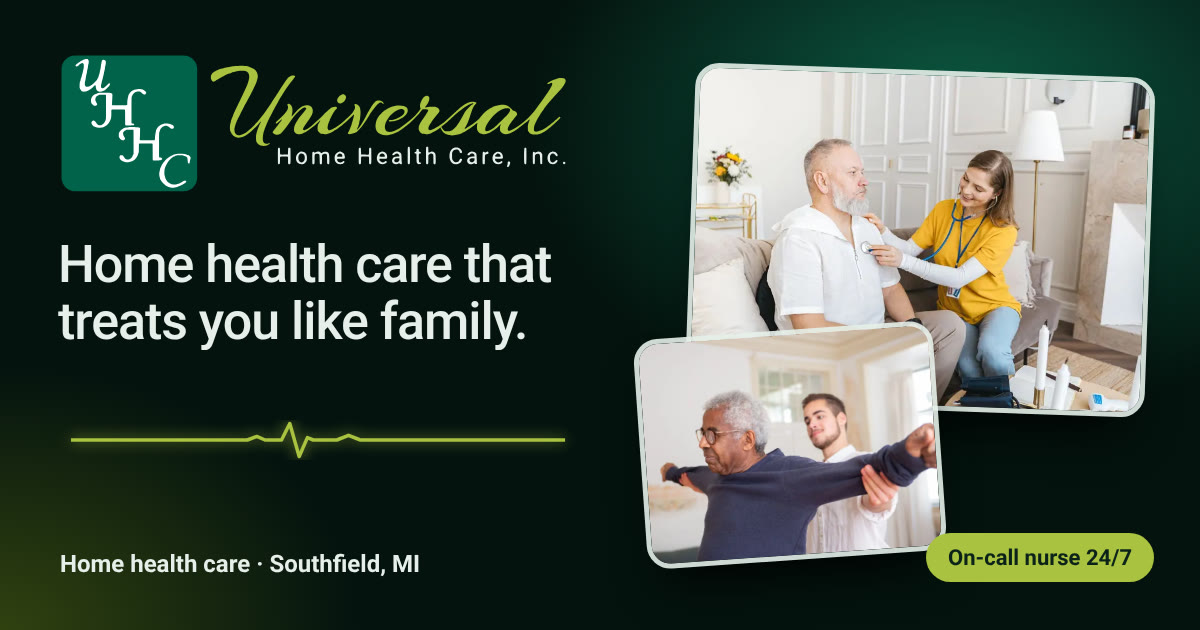
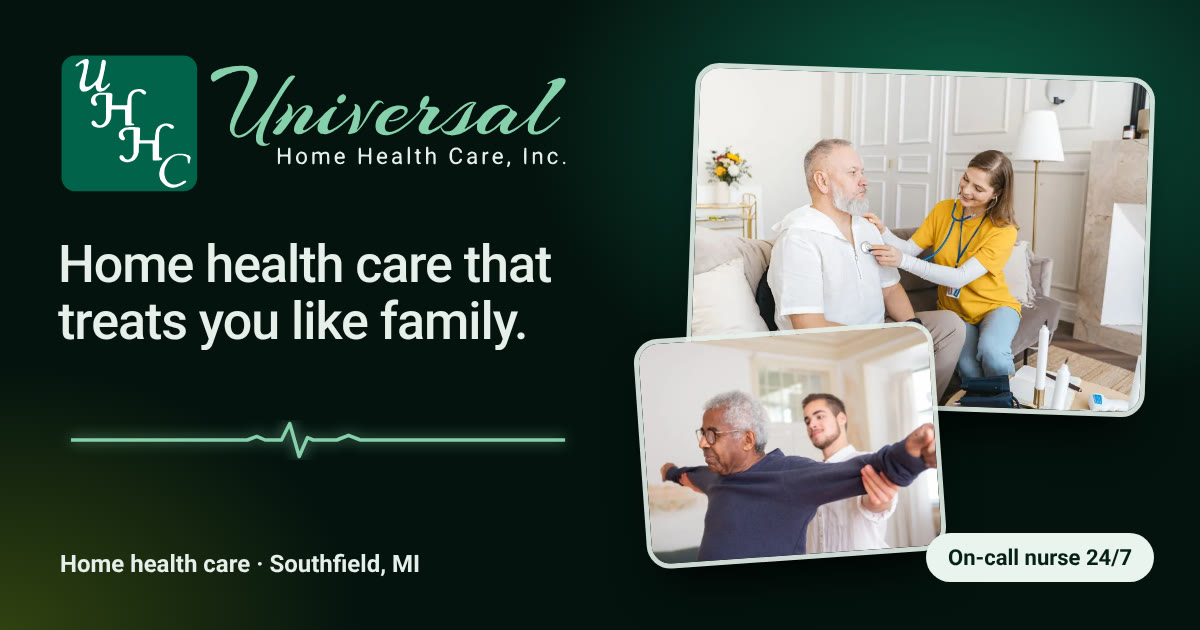
Universal: big scroll button with progress ring, deep emerald palette (no neon), masked word reveals, tap-to-load map, fewer constant repaints
Claude-Session: https://claude.ai/code/session_01LLUpzQsT57yuc9pnTAzjB7

Changed region(s): [[0.185, 0.0905, 0.4933, 0.2413], [0.7708, 0.8444, 0.9867, 0.9349], [0.0617, 0.6635, 0.4625, 0.7238]]

diff --git a/universalhhc/index.html b/universalhhc/index.html
@@ -10,14 +10,14 @@
 <meta property="og:url" content="https://universal-home-health-care.vercel.app/">
 <meta property="og:title" content="Universal Home Health Care · Home health care in Southfield, MI">
 <meta property="og:description" content="Skilled nursing, therapy, home health aides and social work brought to your home in Southfield, Michigan and the tri-county area. An on-call registered nurse 24 hours a day, 7 days a week. Call 800-733-1659.">
-<meta property="og:image" content="https://universal-home-health-care.vercel.app/media/og.jpg?v=mwnxj6sp">
+<meta property="og:image" content="https://universal-home-health-care.vercel.app/media/og.jpg?v=mwnxq6k0">
 <meta property="og:image:width" content="1200">
 <meta property="og:image:height" content="630">
 <meta property="og:image:alt" content="Universal Home Health Care · Home health care in Southfield, MI">
 <meta name="twitter:card" content="summary_large_image">
 <meta name="twitter:title" content="Universal Home Health Care · Home health care in Southfield, MI">
 <meta name="twitter:description" content="Skilled nursing, therapy, home health aides and social work brought to your home in Southfield, Michigan and the tri-county area. An on-call registered nurse 24 hours a day, 7 days a week. Call 800-733-1659.">
-<meta name="twitter:image" content="https://universal-home-health-care.vercel.app/media/og.jpg?v=mwnxj6sp">
+<meta name="twitter:image" content="https://universal-home-health-care.vercel.app/media/og.jpg?v=mwnxq6k0">
 <link rel="apple-touch-icon" href="https://universal-home-health-care.vercel.app/media/apple-touch-icon.png">
 <meta name="robots" content="noai, noimageai">
 <meta name="theme-color" content="#030f0b">
@@ -25,7 +25,7 @@
 <link rel="preconnect" href="https://fonts.googleapis.com"><link rel="preconnect" href="https://fonts.gstatic.com" crossorigin>
 <link href="https://fonts.googleapis.com/css2?family=Roboto:wght@400;500;700&display=swap" rel="stylesheet">
 <style>
-:root{--bg:#030f0b;--bg2:#06180f;--tx:#eef3ef;--tx2:rgba(238,243,239,.66);--tx3:rgba(238,243,239,.4);--line:rgba(238,243,239,.1);--green:#00634a;--greenL:#159a73;--lime:#b5cc4a;--paper:#f4f5f1;--ink:#0a1d15;--mute:#5b6a62;--pline:#e0e5df;--pad:20px;--ease:cubic-bezier(.2,.7,.2,1)}
+:root{--bg:#030f0b;--bg2:#06180f;--tx:#eef3ef;--tx2:rgba(238,243,239,.66);--tx3:rgba(238,243,239,.4);--line:rgba(238,243,239,.1);--green:#00634a;--greenL:#159a73;--lime:#86d1ab;--paper:#f4f5f1;--ink:#0a1d15;--mute:#5b6a62;--pline:#e0e5df;--pad:20px;--ease:cubic-bezier(.2,.7,.2,1)}
 *{margin:0;padding:0;box-sizing:border-box}
 html{-webkit-text-size-adjust:100%;scroll-padding-top:64px}
 html.lenis,html.lenis body{height:auto}
@@ -40,8 +40,8 @@ h1,h2,h3{font-weight:500;line-height:1.08;letter-spacing:-.02em}
 .wrap{max-width:1180px;margin:0 auto;padding:0 var(--pad)}
 .btn{display:inline-flex;align-items:center;justify-content:center;gap:8px;height:48px;padding:0 22px;border-radius:999px;font-weight:700;font-size:.875rem;text-decoration:none;white-space:nowrap;transition:transform .3s var(--ease),background-color .3s,color .3s,border-color .3s}
 .btn svg{width:18px;height:18px;flex:none}
-.b-lime{background:var(--lime);color:#08170f}
-.b-lime:hover{background:#c7dc5c}
+.b-lime{background:#eaf4ee;color:#062018}
+.b-lime:hover{background:#fff}
 .b-ghost{color:var(--tx);border:1px solid rgba(238,243,239,.28)}
 .b-ghost:hover{border-color:var(--tx)}
 .b-green{background:var(--green);color:#fff}
@@ -69,7 +69,7 @@ a:focus-visible,button:focus-visible,summary:focus-visible{outline:2px solid var
 /* hero */
 .hero{position:relative;overflow:hidden;padding:92px 0 0;isolation:isolate}
 #gl{position:absolute;inset:0;width:100%;height:100%;z-index:-2;image-rendering:auto;transform:translateZ(0)}
-.hero-fb{position:absolute;inset:0;z-index:-3;background:radial-gradient(80% 60% at 75% 20%,rgba(21,154,115,.5),transparent 60%),var(--bg)}
+.hero-fb{position:absolute;inset:0;z-index:-3;background:radial-gradient(80% 60% at 75% 20%,rgba(10,100,76,.55),transparent 60%),var(--bg)}
 .hero-vig{position:absolute;inset:0;z-index:-1;background:linear-gradient(180deg,rgba(3,15,11,.1),rgba(3,15,11,0) 40%,rgba(3,15,11,.92) 88%,var(--bg));pointer-events:none}
 .eyebrow{display:inline-flex;align-items:center;gap:8px;font-size:.75rem;font-weight:400;letter-spacing:.09em;color:var(--tx2)}
 .eyebrow i{width:7px;height:7px;border-radius:50%;background:var(--lime);animation:beat .909s infinite}
@@ -80,17 +80,30 @@ a:focus-visible,button:focus-visible,summary:focus-visible{outline:2px solid var
 .hero .lede{color:var(--tx2);max-width:30em}
 .hero .ctas{display:flex;align-items:center;gap:18px;flex-wrap:wrap;margin-top:20px}
 .pulse{display:flex;align-items:center;gap:12px;margin-top:22px;padding:12px 14px;border-radius:16px;background:rgba(6,24,15,.55);border:1px solid var(--line);max-width:460px}
-.pulse .dot{position:relative;width:34px;height:34px;flex:none;border-radius:50%;background:rgba(181,204,74,.14);display:grid;place-items:center}
-.pulse .dot::before{content:"";width:10px;height:10px;border-radius:50%;background:var(--lime);box-shadow:0 0 14px var(--lime)}
+.pulse .dot{position:relative;width:34px;height:34px;flex:none;border-radius:50%;background:rgba(134,209,171,.14);display:grid;place-items:center}
+.pulse .dot::before{content:"";width:10px;height:10px;border-radius:50%;background:var(--lime)}
 .pulse .dot::after{content:"";position:absolute;inset:0;border-radius:50%;border:1px solid var(--lime);animation:ring 1.818s infinite}
 @keyframes ring{0%{opacity:.9;transform:scale(.7)}100%{opacity:0;transform:scale(1.6)}}
 .pulse b{display:block;font-size:.875rem;font-weight:700}
 .pulse span{font-size:.75rem;color:var(--tx2)}
 .pulse a{margin-left:auto;font-weight:800;font-size:.8125rem;color:var(--lime);text-decoration:none;white-space:nowrap}
+.cue{position:absolute;left:50%;top:calc(100svh - 214px);z-index:5;width:76px;height:76px;margin-left:-38px;border-radius:50%;display:grid;place-items:center;text-decoration:none;background:#00634a;box-shadow:0 14px 34px -10px rgba(0,0,0,.6),0 0 0 6px rgba(0,99,74,.25);transition:opacity .5s,transform .5s var(--ease)}
+.cue svg{position:absolute;inset:0;width:100%;height:100%;transform:rotate(-90deg)}
+.cue circle{fill:none;stroke-width:2}
+.cue .tr{stroke:rgba(255,255,255,.22)}
+.cue .pg{stroke:#fff;stroke-dasharray:289;stroke-dashoffset:289;stroke-linecap:round}
+.cue .ar{position:relative;width:18px;height:26px}
+.cue .ar i{position:absolute;left:50%;width:12px;height:12px;margin-left:-6px;border-right:2.5px solid #fff;border-bottom:2.5px solid #fff;transform:rotate(45deg);animation:cue 1.8s var(--ease) infinite}
+.cue .ar i:nth-child(2){animation-delay:.18s;opacity:.5}
+@keyframes cue{0%{top:-2px;opacity:0}30%{opacity:1}70%{opacity:1}100%{top:12px;opacity:0}}
+.cue em{position:absolute;top:calc(100% + 10px);left:50%;transform:translateX(-50%);font-style:normal;font-size:.6875rem;font-weight:500;letter-spacing:.14em;text-transform:uppercase;color:#fff;background:rgba(3,15,11,.72);border-radius:999px;padding:4px 10px;white-space:nowrap}
+.cue:hover{transform:translateY(3px)}
+.cue.gone{opacity:0;pointer-events:none;transform:translateY(16px)}
 .hmedia{position:relative;margin:30px auto 0;width:100%;border-radius:22px;overflow:hidden;aspect-ratio:4/3;max-height:48svh;transform-origin:50% 0;will-change:transform}
 .hmedia img{width:100%;height:100%;object-fit:cover;transform:scale(1.12);will-change:transform}
 .hmedia .cap{position:absolute;left:14px;bottom:14px;right:14px;display:flex;justify-content:space-between;align-items:flex-end;gap:10px;font-size:.75rem;font-weight:600}
 .hmedia .cap span{background:rgba(3,15,11,.62);border-radius:999px;padding:6px 12px}
+@media (max-width:699px){.hmedia .cap{display:none}}
 .ecgline{position:absolute;left:0;right:0;top:0;height:100%;pointer-events:none;opacity:.9}
 
 /* statement */
@@ -101,8 +114,8 @@ a:focus-visible,button:focus-visible,summary:focus-visible{outline:2px solid var
 /* numbers */
 .nums{padding:0 0 64px}
 .bento{display:grid;grid-template-columns:1fr 1fr;gap:10px}
-.tile{position:relative;border-radius:22px;padding:18px 16px 16px;background:linear-gradient(160deg,rgba(21,154,115,.16),rgba(6,24,15,.6) 60%);border:1px solid var(--line);overflow:hidden;min-height:150px;display:flex;flex-direction:column;justify-content:space-between}
-.tile::before{content:"";position:absolute;inset:0;background:radial-gradient(240px circle at var(--mx,50%) var(--my,0%),rgba(181,204,74,.18),transparent 60%);opacity:0;transition:opacity .4s}
+.tile{position:relative;border-radius:22px;padding:18px 16px 16px;background:linear-gradient(160deg,rgba(18,110,84,.22),rgba(6,24,15,.6) 60%);border:1px solid var(--line);overflow:hidden;min-height:150px;display:flex;flex-direction:column;justify-content:space-between}
+.tile::before{content:"";position:absolute;inset:0;background:radial-gradient(240px circle at var(--mx,50%) var(--my,0%),rgba(134,209,171,.18),transparent 60%);opacity:0;transition:opacity .4s}
 @media (hover:hover){.tile:hover::before{opacity:1}}
 .tile .v{font-size:2.5rem;font-weight:500;letter-spacing:-.03em;line-height:1}
 .tile .v small{font-size:.45em;letter-spacing:-.02em}
@@ -111,7 +124,7 @@ a:focus-visible,button:focus-visible,summary:focus-visible{outline:2px solid var
 .tile.wide .v{font-size:2rem}
 .tile.wide p{margin:0}
 .tile .ecgm{position:absolute;right:-10px;top:12px;width:60%;height:40px;opacity:.5}
-.tile .ecgm path{fill:none;stroke:var(--lime);stroke-width:2;stroke-dasharray:40 300;animation:ecg 1.818s linear infinite}
+.tile .ecgm path{fill:none;stroke:var(--lime);stroke-width:2;opacity:.7}
 @keyframes ecg{from{stroke-dashoffset:40}to{stroke-dashoffset:-300}}
 
 /* team scrolly */
@@ -189,8 +202,8 @@ a:focus-visible,button:focus-visible,summary:focus-visible{outline:2px solid var
 /* how */
 .how{background:var(--bg)}
 .track{display:grid;gap:10px}
-.step{border-radius:22px;padding:18px;background:linear-gradient(160deg,rgba(21,154,115,.14),rgba(6,24,15,.7) 60%);border:1px solid var(--line)}
-.step .n{font-size:2.25rem;font-weight:500;letter-spacing:-.03em;line-height:1;background:linear-gradient(180deg,var(--lime),rgba(181,204,74,.25));-webkit-background-clip:text;background-clip:text;color:transparent}
+.step{border-radius:22px;padding:18px;background:linear-gradient(160deg,rgba(18,110,84,.2),rgba(6,24,15,.7) 60%);border:1px solid var(--line)}
+.step .n{font-size:2.25rem;font-weight:500;letter-spacing:-.03em;line-height:1;background:linear-gradient(180deg,var(--lime),rgba(134,209,171,.25));-webkit-background-clip:text;background-clip:text;color:transparent}
 .step h3{font-size:1.0625rem;margin-top:14px;letter-spacing:-.02em}
 .step p{color:var(--tx2);font-size:.8125rem;margin-top:4px}
 
@@ -203,6 +216,9 @@ a:focus-visible,button:focus-visible,summary:focus-visible{outline:2px solid var
 .cw{display:grid;gap:12px}
 .map{position:relative;border-radius:22px;overflow:hidden;aspect-ratio:4/3;max-height:44svh;background:#e3e8e1;border:1px solid var(--pline)}
 .map iframe{position:absolute;inset:0;width:100%;height:100%;border:0;filter:grayscale(.6) contrast(1.05) brightness(1.02)}
+.mapbtn{position:absolute;inset:0;width:100%;display:flex;flex-direction:column;align-items:center;justify-content:center;gap:4px;color:var(--ink);background:radial-gradient(circle at 50% 46%,rgba(0,99,74,.12),transparent 40%),repeating-linear-gradient(0deg,transparent 0 38px,rgba(10,29,21,.05) 38px 39px),repeating-linear-gradient(90deg,transparent 0 38px,rgba(10,29,21,.05) 38px 39px),#e9eee7}
+.mapbtn .pin{width:18px;height:18px;border-radius:50% 50% 50% 0;transform:rotate(-45deg);background:var(--green);box-shadow:0 0 0 8px rgba(0,99,74,.15);margin-bottom:12px}
+.mapbtn b{font-weight:500;font-size:1rem}.mapbtn span:last-child{font-size:.75rem;color:var(--mute)}
 .card{background:#fff;border-radius:22px;padding:20px;border:1px solid var(--pline)}
 .card h3{font-size:1.25rem}
 .card address{font-style:normal;color:var(--mute);margin:6px 0 12px}
@@ -233,7 +249,9 @@ footer .lg{width:190px}
 .dock.hide{transform:translateY(150%);opacity:0;pointer-events:none}
 .toast{position:fixed;left:50%;bottom:92px;transform:translate(-50%,20px);background:var(--ink);color:#fff;border-radius:999px;padding:9px 16px;font-size:.8125rem;font-weight:700;opacity:0;transition:opacity .3s,transform .3s;z-index:70;pointer-events:none}
 .toast.on{opacity:1;transform:translate(-50%,0)}
-.up{opacity:0;transform:translateY(28px)}
+.up{opacity:0;transform:translateY(36px)}
+.wm{display:inline-block;overflow:hidden;vertical-align:top;padding-bottom:.08em;margin-bottom:-.08em}
+.wm>span{display:inline-block;will-change:transform}
 .no-motion .up{opacity:1;transform:none}
 
 /* intro */
@@ -244,12 +262,13 @@ footer .lg{width:190px}
 #intro .pr{position:absolute;left:14.5%;top:50%;width:0;height:0}
 #intro .pr i{position:absolute;left:-80px;top:-80px;width:160px;height:160px;border-radius:50%;border:1.5px solid var(--lime);opacity:0}
 #intro .iecg{position:absolute;left:-10%;right:-10%;top:108%;height:60px;width:120%}
-#intro .iecg path{fill:none;stroke:var(--lime);stroke-width:2;stroke-linecap:round;stroke-linejoin:round;filter:drop-shadow(0 0 6px rgba(181,204,74,.9))}
+#intro .iecg path{fill:none;stroke:var(--lime);stroke-width:2;stroke-linecap:round;stroke-linejoin:round;filter:drop-shadow(0 0 6px rgba(134,209,171,.9))}
 #intro .skip{position:absolute;left:0;right:0;bottom:calc(26px + env(safe-area-inset-bottom));text-align:center;font-size:.6875rem;font-weight:600;letter-spacing:.14em;text-transform:uppercase;color:rgba(238,243,239,.35)}
 
 @media (min-width:700px){
   :root{--pad:32px}
   .hero{padding-top:110px}
+  .cue{width:88px;height:88px;margin-left:-44px;top:calc(100svh - 170px)}
   .hero h1{font-size:3.25rem}
   .hmedia{aspect-ratio:16/9;max-height:none;border-radius:28px}
   .state p{font-size:2rem}
@@ -781,11 +800,12 @@ footer .lg{width:190px}
     <p class="lede hx">Skilled nursing, therapy, home health aides and social work, planned with your doctor and brought to your door across the tri-county area.</p>
     <div class="ctas hx"><a class="btn b-lime" href="tel:+18007331659"><svg viewBox="0 0 24 24" fill="none" stroke="currentColor" stroke-width="2" stroke-linecap="round" stroke-linejoin="round" aria-hidden="true"><path d="M5 4h4l2 5-2.5 1.5a11 11 0 0 0 5 5L15 13l5 2v4a2 2 0 0 1-2 2A16 16 0 0 1 3 6a2 2 0 0 1 2-2"/></svg>800-733-1659</a><a class="tl" href="#start">Start care <svg viewBox="0 0 24 24" fill="none" stroke="currentColor" stroke-width="2" stroke-linecap="round" stroke-linejoin="round" aria-hidden="true"><path d="M5 12h14M13 6l6 6-6 6"/></svg></a></div>
     <div class="pulse hx" aria-live="polite"><span class="dot"></span><div><b id="whoh">Our office team is in</b><span id="whos">Southfield</span></div><a href="tel:+18007331659">Call</a></div>
-    <figure class="hmedia" id="hmedia"><img src="media/p-nurse-1400.webp" srcset="media/p-nurse-800.webp 800w, media/p-nurse-1400.webp 1400w" sizes="(min-width:1180px) 1120px, 100vw" width="1400" height="934" fetchpriority="high" alt="A home health nurse listening to a patient's heart with a stethoscope in his living room"><svg class="ecgline" viewBox="0 0 1200 400" preserveAspectRatio="none" aria-hidden="true"><path id="hecg" d="M0 300H520l14-6 12 6h24l12-40 14 80 12-50 10 10h40l16-12 16 12H1200" fill="none" stroke="#b5cc4a" stroke-width="2" stroke-linecap="round" stroke-linejoin="round" vector-effect="non-scaling-stroke"/></svg><figcaption class="cap"><span>Nursing visits at home</span><span>On call 24/7</span></figcaption></figure>
+    <a class="cue" id="cue" href="#statement" aria-label="Scroll down to explore"><svg viewBox="0 0 100 100" aria-hidden="true"><circle class="tr" cx="50" cy="50" r="46"/><circle class="pg" id="cuepg" cx="50" cy="50" r="46"/></svg><span class="ar"><i></i><i></i></span><em>Scroll</em></a>
+    <figure class="hmedia" id="hmedia"><img src="media/p-nurse-1400.webp" srcset="media/p-nurse-800.webp 800w, media/p-nurse-1400.webp 1400w" sizes="(min-width:1180px) 1120px, 100vw" width="1400" height="934" fetchpriority="high" alt="A home health nurse listening to a patient's heart with a stethoscope in his living room"><svg class="ecgline" viewBox="0 0 1200 400" preserveAspectRatio="none" aria-hidden="true"><path id="hecg" d="M0 300H520l14-6 12 6h24l12-40 14 80 12-50 10 10h40l16-12 16 12H1200" fill="none" stroke="#86d1ab" stroke-width="2" stroke-linecap="round" stroke-linejoin="round" vector-effect="non-scaling-stroke"/></svg><figcaption class="cap"><span>Nursing visits at home</span><span>On call 24/7</span></figcaption></figure>
   </div>
 </section>
 
-<section class="state">
+<section class="state" id="statement">
   <div class="wrap"><p id="stmt">Getting better should happen where you feel most like yourself: at home, in your own chair, with people who know you by name.</p></div>
 </section>
 
@@ -892,7 +912,7 @@ footer .lg{width:190px}
   <div class="wrap">
     <div class="sh up"><h2>Our office in Southfield</h2><p>Serving Southfield and nearby communities across the tri-county area of Michigan.</p></div>
     <div class="cw">
-      <div class="map up"><iframe title="Map of Universal Home Health Care, 24315 Northwestern Hwy, Southfield" loading="lazy" referrerpolicy="no-referrer-when-downgrade" src="https://maps.google.com/maps?q=24315%20Northwestern%20Hwy%2C%20Southfield%2C%20MI%2048075&z=12&output=embed"></iframe></div>
+      <div class="map up" id="map"><button type="button" class="mapbtn" id="mapbtn" aria-label="Load the map"><span class="pin"></span><b>24315 Northwestern Hwy</b><span>Tap to load the map</span></button></div>
       <div class="card up">
         <h3>Universal Home Health Care, Inc.</h3>
         <address>24315 Northwestern Hwy, Suite 226<br>Southfield, MI 48075</address>
@@ -1196,6 +1216,12 @@ function who(){var d=new Date(),wd=new Intl.DateTimeFormat('en-US',{timeZone:'Am
   $('#whos').textContent=wd+' '+tt+' in Southfield'+(open?' · open until 5:30 PM':'');}
 who();setInterval(who,30000);
 
+/* scroll cue: ring fills over the first screen, then it fades */
+var cue=$('#cue'),cpg=$('#cuepg');
+function cueU(){var p=Math.min(1,scrollY/(innerHeight*.5));cpg.style.strokeDashoffset=289*(1-p);cue.classList.toggle('gone',scrollY>innerHeight*.45)}
+addEventListener('scroll',cueU,{passive:true});cueU();
+/* map loads only on tap */
+$('#mapbtn').addEventListener('click',function(){$('#map').innerHTML='<iframe title="Map of Universal Home Health Care, 24315 Northwestern Hwy, Southfield" referrerpolicy="no-referrer-when-downgrade" src="https://maps.google.com/maps?q=24315%20Northwestern%20Hwy%2C%20Southfield%2C%20MI%2048075&z=12&output=embed"></iframe>'});
 /* nav solid after hero top */
 var nav=$('#nav');function navs(){nav.classList.toggle('solid',scrollY>40)}addEventListener('scroll',navs,{passive:true});navs();
 
@@ -1227,9 +1253,9 @@ var stmt=$('#stmt');
    'float fbm(vec2 p){float v=0.,a=.5;for(int i=0;i<4;i++){v+=a*n(p);p=p*2.03+7.1;a*=.5;}return v;}'+
    'void main(){vec2 p=(gl_FragCoord.xy-.5*r)/r.y;float tt=t*.05;'+
    'float q=fbm(p*1.5+tt);float f=fbm(p*1.2+vec2(q*1.9,q*1.4)+vec2(tt*1.6,-tt));'+
-   'vec3 deep=vec3(.006,.04,.028),green=vec3(0.,.36,.27),lime=vec3(.6,.72,.22),warm=vec3(.88,.96,.66);'+
-   'vec3 c=mix(deep,green,smoothstep(.2,.72,f));c=mix(c,lime*.8,smoothstep(.55,.92,f));c+=warm*pow(smoothstep(.66,.96,f),2.)*.35;'+
-   'vec2 mm=(m-.5*r)/r.y;float glow=exp(-4.5*length(p-mm));c+=lime*glow*(.22+.3*beat);'+
+   'vec3 deep=vec3(.01,.04,.033),green=vec3(0.,.3,.225),emer=vec3(.05,.47,.355),mist=vec3(.62,.84,.74);'+
+   'vec3 c=mix(deep,green,smoothstep(.2,.7,f));c=mix(c,emer,smoothstep(.52,.88,f));c+=mist*pow(smoothstep(.68,.98,f),2.)*.26;'+
+   'vec2 mm=(m-.5*r)/r.y;float glow=exp(-4.5*length(p-mm));c+=mist*glow*(.08+.14*beat);'+
    'c*=.45+.6*smoothstep(1.5,.1,length(p-vec2(.4,.3)));c*=1.+beat*.06;gl_FragColor=vec4(c,1.);}';
   function sh(type,src){var s=gl.createShader(type);gl.shaderSource(s,src);gl.compileShader(s);return s;}
   var prog=gl.createProgram();gl.attachShader(prog,sh(gl.VERTEX_SHADER,vs));gl.attachShader(prog,sh(gl.FRAGMENT_SHADER,fs));gl.linkProgram(prog);
@@ -1268,8 +1294,13 @@ ST.config({ignoreMobileResize:true});
 
 var lenis=null;html.style.scrollBehavior='smooth';
 
+/* headings: words rise out of a mask */
+$$('.sh h2,.thead h2,.ctext h2').forEach(function(h){h.innerHTML=h.textContent.split(' ').map(function(w){return '<span class="wm"><span>'+w+'</span></span>'}).join(' ');
+  G.from(h.querySelectorAll('.wm>span'),{yPercent:115,duration:1.1,stagger:.045,ease:'expo.out',scrollTrigger:{trigger:h,start:'top 90%'}});});
+/* soft parallax inside photo frames */
+$$('.door figure img,.cmedia img').forEach(function(im){G.fromTo(im,{yPercent:-5,scale:1.1},{yPercent:5,scale:1.1,ease:'none',scrollTrigger:{trigger:im.parentNode,start:'top bottom',end:'bottom top',scrub:true}})});
 /* reveal ups */
-$$('.up').forEach(function(el){G.to(el,{opacity:1,y:0,duration:1,ease:'power3.out',scrollTrigger:{trigger:el,start:'top 88%'}})});
+$$('.up').forEach(function(el){G.to(el,{opacity:1,y:0,duration:1.2,ease:'expo.out',scrollTrigger:{trigger:el,start:'top 90%'}})});
 /* count up */
 $$('[data-count]').forEach(function(el){var n=+el.dataset.count,sm=el.querySelector('small'),smh=sm?sm.outerHTML:'',o={v:0};
   ST.create({trigger:el,start:'top 90%',once:true,onEnter:function(){G.to(o,{v:n,duration:1.4,ease:'power2.out',onUpdate:function(){el.innerHTML=Math.round(o.v)+smh}})}})});
@@ -1302,7 +1333,7 @@ G.fromTo('#cmedia',{scale:desk.matches?.72:.88},{scale:1,ease:'none',scrollTrigg
 
 /* hero entrance */
 G.set('.hero h1 .ln>span',{yPercent:110});G.set('.hx',{opacity:0,y:16});G.set('#hmedia',{opacity:0,y:60});
-var heroDone=false;function heroIn(){if(heroDone)return;heroDone=true;G.to('.hero h1 .ln>span',{yPercent:0,duration:1.1,stagger:.12,ease:'power4.out'});G.to('.hx',{opacity:1,y:0,duration:.9,stagger:.08,ease:'power3.out',delay:.25});G.to('#hmedia',{opacity:1,y:0,duration:1.2,ease:'power3.out',delay:.35});}
+var heroDone=false;function heroIn(){if(heroDone)return;heroDone=true;G.to('.hero h1 .ln>span',{yPercent:0,duration:1.4,stagger:.14,ease:'expo.out'});G.to('.hx',{opacity:1,y:0,duration:.9,stagger:.08,ease:'power3.out',delay:.25});G.to('#hmedia',{opacity:1,y:0,duration:1.2,ease:'power3.out',delay:.35});}
 
 startIntroOrNot();
 function startIntroOrNot(){

diff --git a/universalhhc/render/og.html b/universalhhc/render/og.html
@@ -2,12 +2,12 @@
 *{margin:0;box-sizing:border-box}body{width:1200px;height:630px;overflow:hidden;position:relative;font-family:Roboto;color:#e6efe9;background:radial-gradient(60% 80% at 80% 20%,rgba(19,144,107,.6),transparent 60%),radial-gradient(50% 70% at 0% 100%,rgba(131,154,20,.35),transparent 60%),#04130e}
 .lg{position:absolute;left:54px;top:48px;width:520px}
 h1{position:absolute;left:58px;top:236px;width:620px;font:500 52px/1.1 Roboto;letter-spacing:-.02em}
-.ecg{position:absolute;left:58px;top:420px;width:520px;height:40px}.ecg path{fill:none;stroke:#a9c23f;stroke-width:3;stroke-linejoin:round;filter:drop-shadow(0 0 6px rgba(169,194,63,.8))}
+.ecg{position:absolute;left:58px;top:420px;width:520px;height:40px}.ecg path{fill:none;stroke:#86d1ab;stroke-width:3;stroke-linejoin:round;filter:drop-shadow(0 0 6px rgba(134,209,171,.8))}
 .loc{position:absolute;left:60px;bottom:52px;font-weight:700;font-size:24px}.loc span{color:inherit}
 .ph{position:absolute;border-radius:24px;overflow:hidden;border:5px solid rgba(230,239,233,.9);box-shadow:0 30px 50px -20px #000}
 .ph img{display:block;width:100%;height:100%;object-fit:cover}
 .a{left:690px;top:70px;width:460px;height:340px;transform:rotate(2deg)}.b{left:640px;top:330px;width:300px;height:230px;transform:rotate(-4deg)}
-.pill{position:absolute;right:46px;bottom:48px;background:#a9c23f;color:#0b2219;border-radius:999px;padding:12px 22px;font-weight:700;font-size:22px}
+.pill{position:absolute;right:46px;bottom:48px;background:#eaf4ee;color:#062018;border-radius:999px;padding:12px 22px;font-weight:700;font-size:22px}
 </style></head><body><div class="lg"><svg viewBox="0 0 1380 400" xmlns="http://www.w3.org/2000/svg" role="img" aria-label="Universal Home Health Care, Inc."><rect x="20" y="20" width="360" height="360" rx="36" fill="#00634a"/><g transform="translate(20,20) scale(0.03516,-0.03516) translate(0,-10240)" fill="#fff"><path d="M1765 9955 c-33 -13 -85 -31 -115 -40 -30 -9 -64 -25 -75 -36 -11
 -10 -41 -25 -65 -34 -25 -9 -56 -26 -70 -39 -14 -13 -48 -35 -76 -49 -27 -14
 -56 -33 -64 -42 -7 -9 -31 -25 -51 -36 -21 -10 -44 -27 -51 -37 -7 -10 -27
@@ -96,7 +96,7 @@ h1{position:absolute;left:58px;top:236px;width:620px;font:500 52px/1.1 Roboto;le
 32 68 44 13 11 50 28 81 36 32 9 81 27 109 42 51 27 52 27 271 27 220 0 220 0
 290 -31 39 -18 95 -37 125 -44 45 -10 65 -22 106 -64 58 -57 56 -51 74 -277
 13 -172 22 -191 91 -204 48 -9 55 2 68 113 6 51 22 125 35 165 51 155 45 187
--53 280 -43 41 -70 58 -114 71 -31 9 -71 25 -89 35 -107 62 -521 88 -778 50z"/></g><g><g transform="translate(79.6,30.5) scale(0.05600,-0.05600) translate(0,-5120)" fill="#a9c23f"><path d="M7445 4823 c-185 -6 -419 -25 -470 -38 -31 -8 -68 -15 -83 -15 -36 0
+-53 280 -43 41 -70 58 -114 71 -31 9 -71 25 -89 35 -107 62 -521 88 -778 50z"/></g><g><g transform="translate(79.6,30.5) scale(0.05600,-0.05600) translate(0,-5120)" fill="#86d1ab"><path d="M7445 4823 c-185 -6 -419 -25 -470 -38 -31 -8 -68 -15 -83 -15 -36 0
 -239 -45 -357 -79 -413 -118 -575 -280 -509 -508 31 -105 104 -146 173 -96
 104 77 226 150 361 217 30 15 62 31 70 36 29 18 168 79 251 111 46 17 98 38
 116 45 17 8 36 14 42 14 6 0 37 9 68 19 181 59 430 78 543 41 164 -55 217
